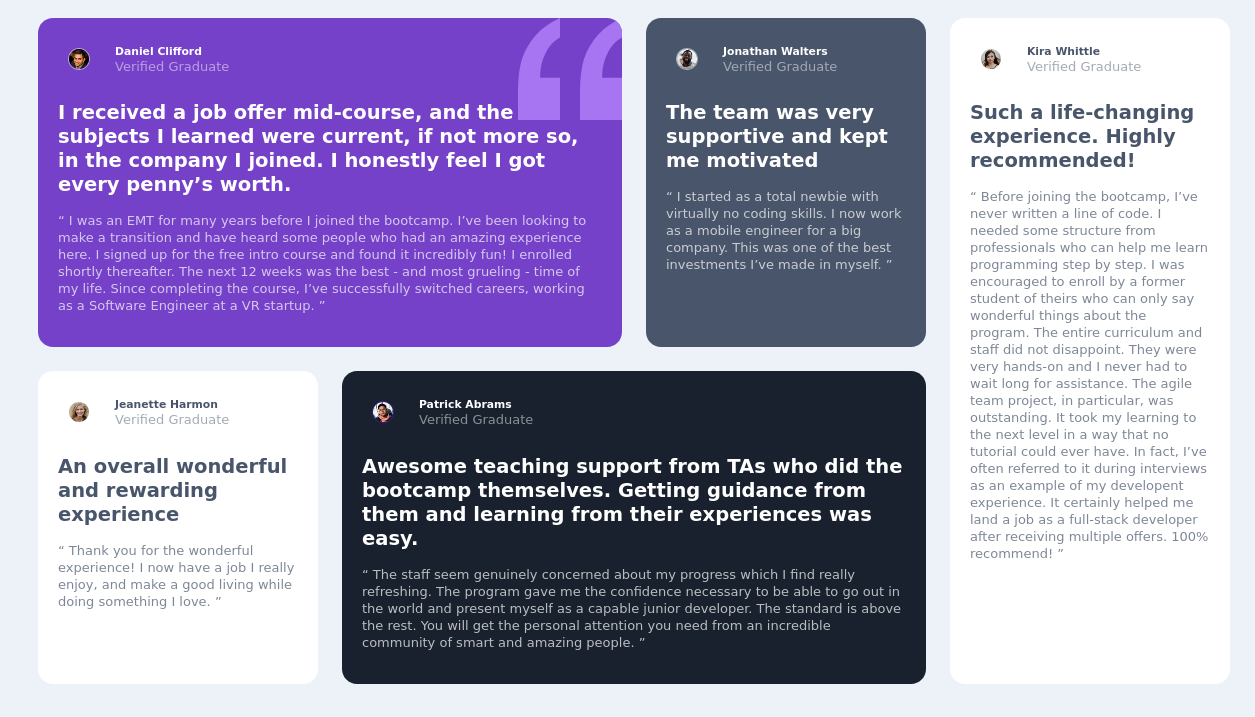
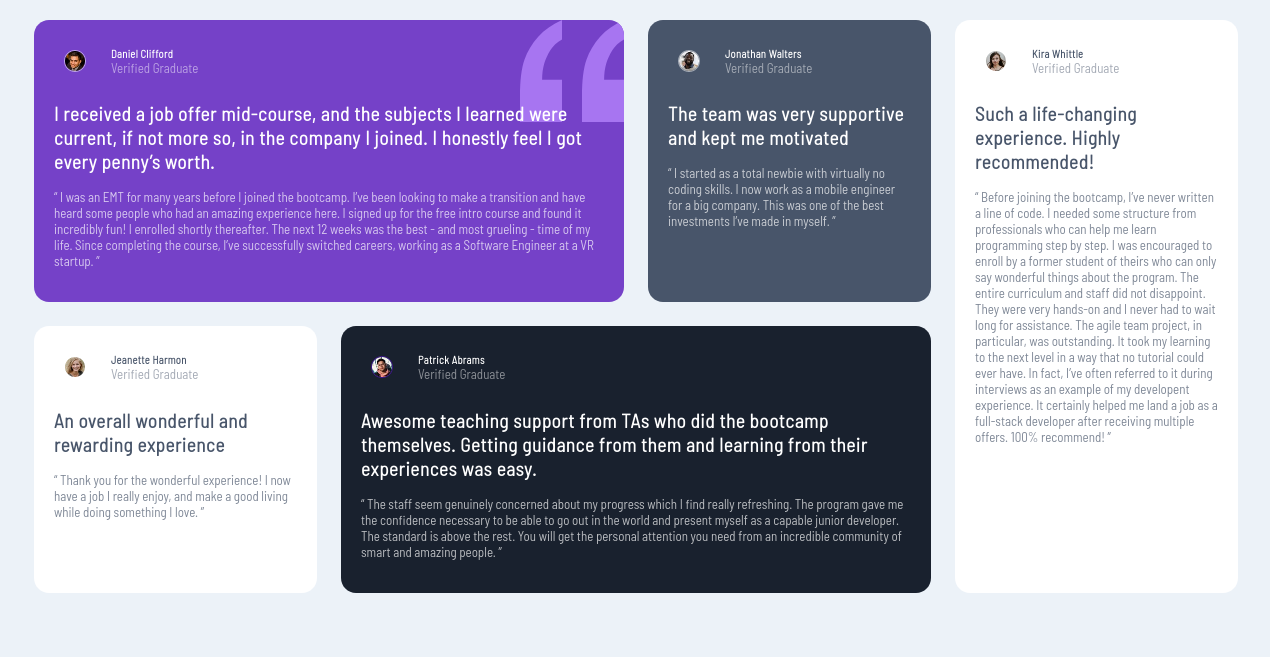
Add files via upload

Changed region(s): [[0.0, 0.0, 0.9633, 0.9741], [0.7769, 0.0609, 0.9012, 0.1218]]

diff --git a/index.html b/index.html
@@ -6,7 +6,7 @@
 
   <link rel="icon" type="image/png" sizes="32x32" href="./images/favicon-32x32.png">
   <link rel="stylesheet" href="style.css">
-  
+  <link rel="stylesheet" href="https://fonts.googleapis.com/css?family=Barlow+Semi+Condensed">  
   <title>Frontend Mentor | [Challenge Name Here]</title>
 
   <!-- Feel free to remove these styles or customise in your own stylesheet 👍 -->

diff --git a/style.css b/style.css
@@ -1,7 +1,7 @@
 body{
     background-color: hsl(210, 46%, 95%);
     font-size: 13px;
-    font-family: 'Gill Sans', 'Gill Sans MT', Calibri, 'Trebuchet MS', sans-serif;
+    font-family: "Barlow Semi Condensed", 'Gill Sans', 'Gill Sans MT', Calibri, 'Trebuchet MS', sans-serif;
     display: flex;
     justify-content: center;
     align-items: center;
